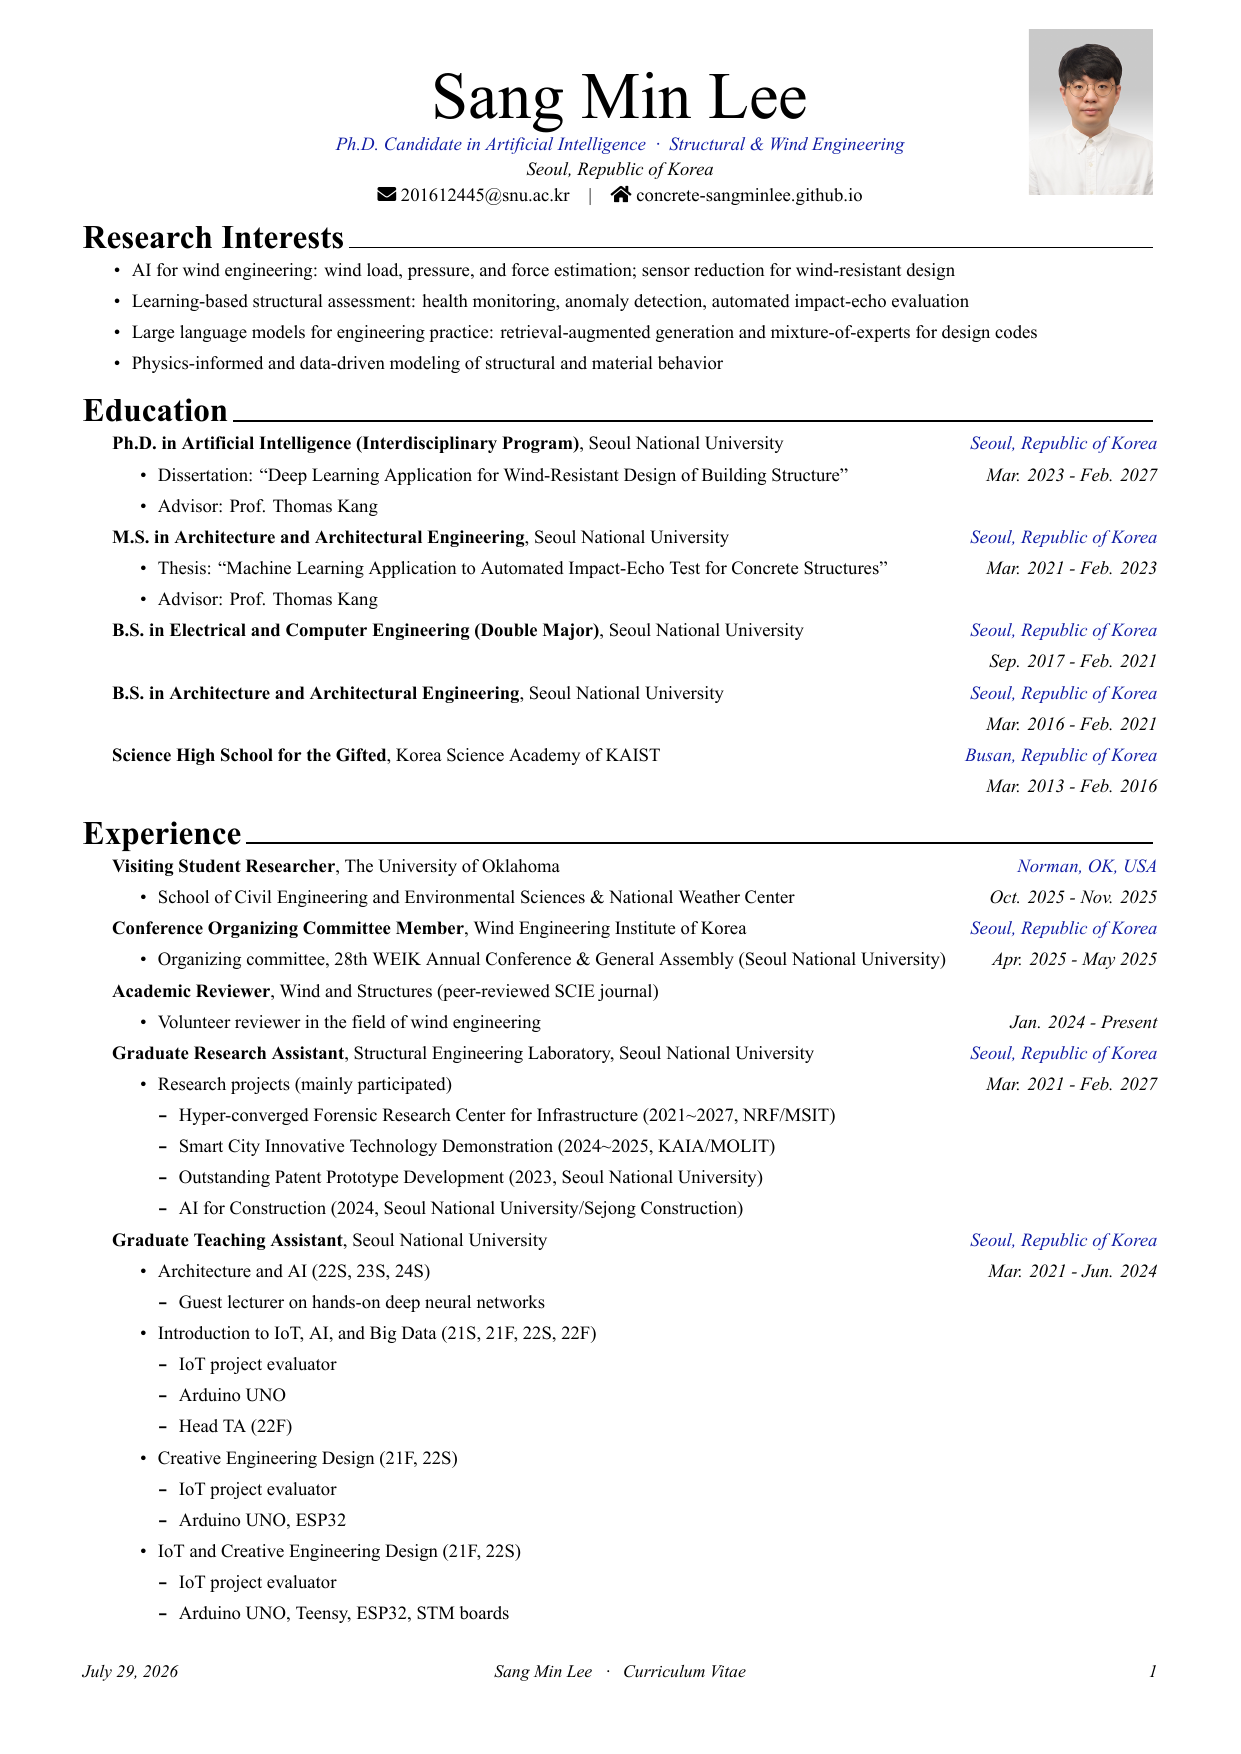
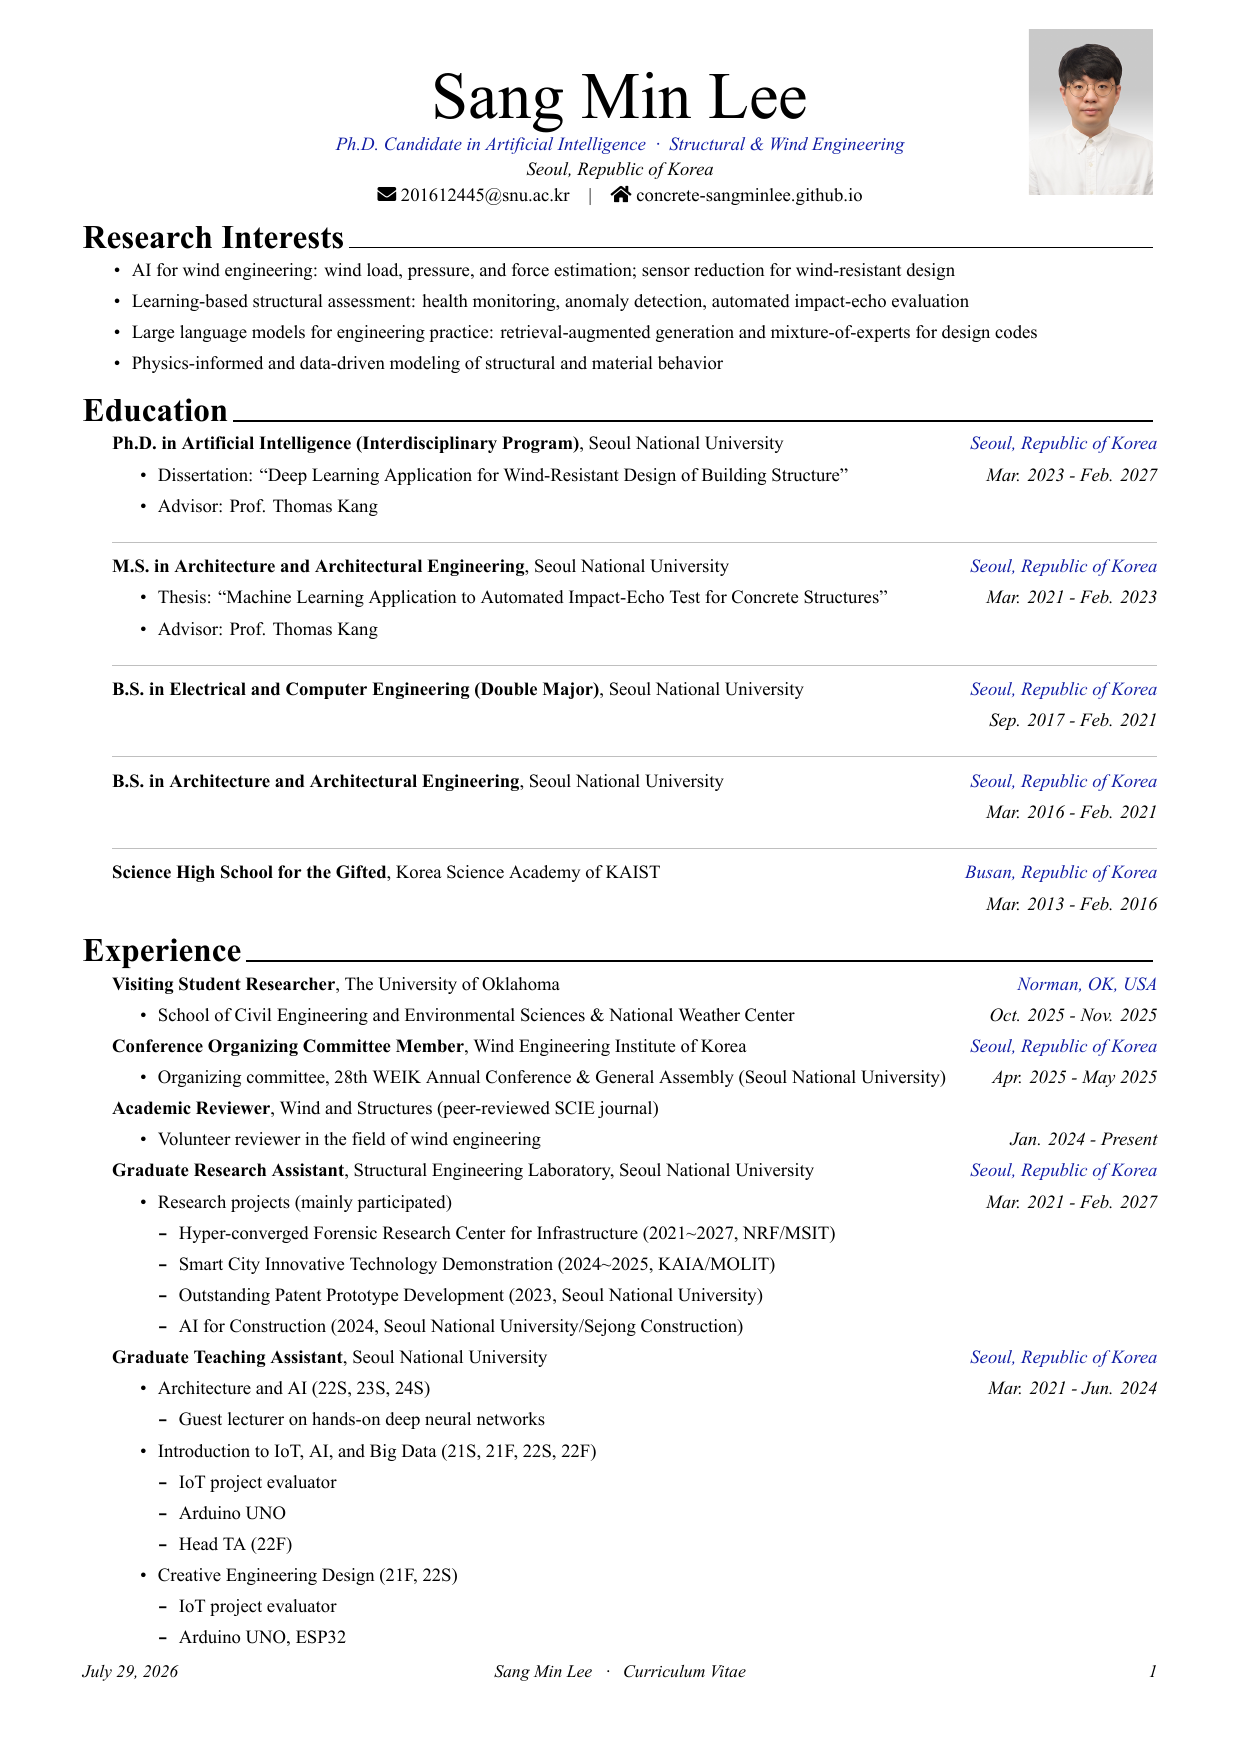
Add light dividers between education entries

diff --git a/research-cv/cv/education.tex b/research-cv/cv/education.tex
@@ -21,6 +21,8 @@
     \end{cvitems}
   }
 
+  \cventrydivider
+
   \cventrycompact
   {M.S. in Architecture and Architectural Engineering} % Degree
   {Seoul National University} % Institution
@@ -33,6 +35,8 @@
     \end{cvitems}
   }
 
+  \cventrydivider
+
   \cventrycompact
   {B.S. in Electrical and Computer Engineering (Double Major)} % Degree
   {Seoul National University} % Institution
@@ -40,12 +44,16 @@
   {Sep. 2017 - Feb. 2021} % Date(s)
   {}
 
+  \cventrydivider
+
   \cventrycompact
   {B.S. in Architecture and Architectural Engineering} % Degree
   {Seoul National University} % Institution
   {Seoul, Republic of Korea} % Location
   {Mar. 2016 - Feb. 2021} % Date(s)
   {}
+
+  \cventrydivider
 
   \cventrycompact
   {Science High School for the Gifted} % Degree
